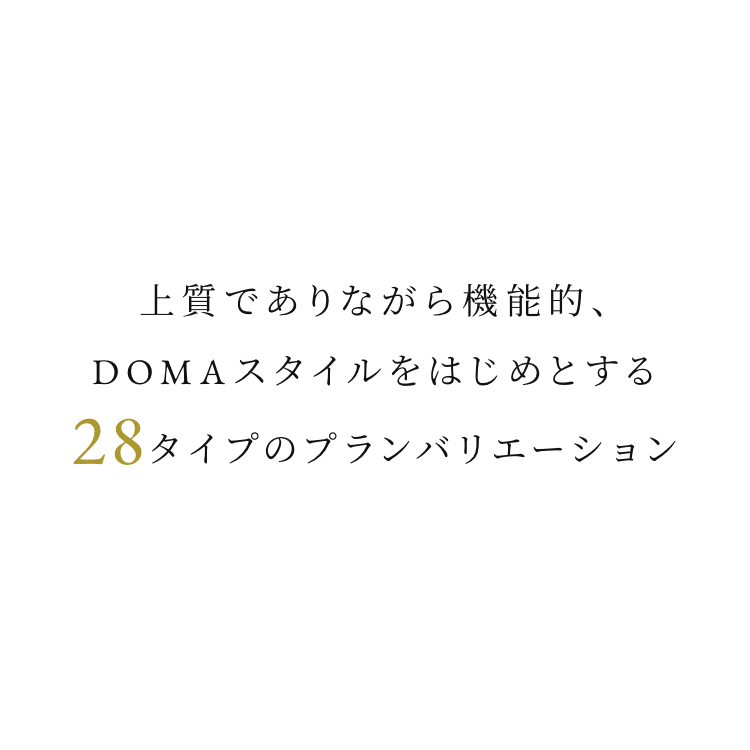
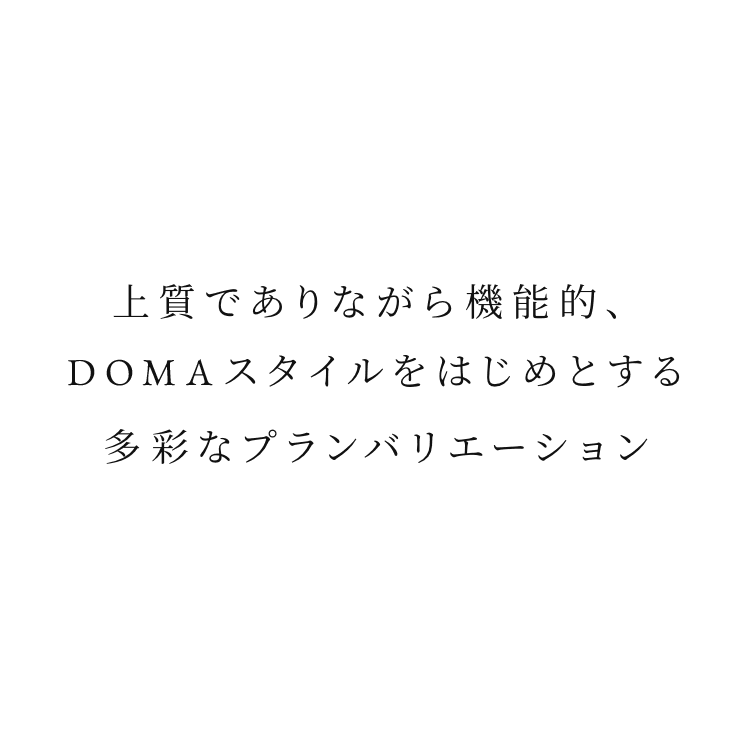
no message

diff --git a/index.html b/index.html
@@ -489,7 +489,7 @@
                             </div>
 
                             <div class="uspBlock__item" data-aos="fade-up">
-                                <p class="uspBlock__text"><span class="small">ルーフバルコニーやテラス&専用庭付きプラン、</span><br>DOMAスタイルなど<br>個性的で多様なプラン</p>
+                                <p class="uspBlock__text"><span class="small">ルーフバルコニーやテラス&専用庭付きプラン、</span><br>DOMAスタイルなど<br>個性的で多彩なプラン</p>
                             </div>
 
                         </section>
